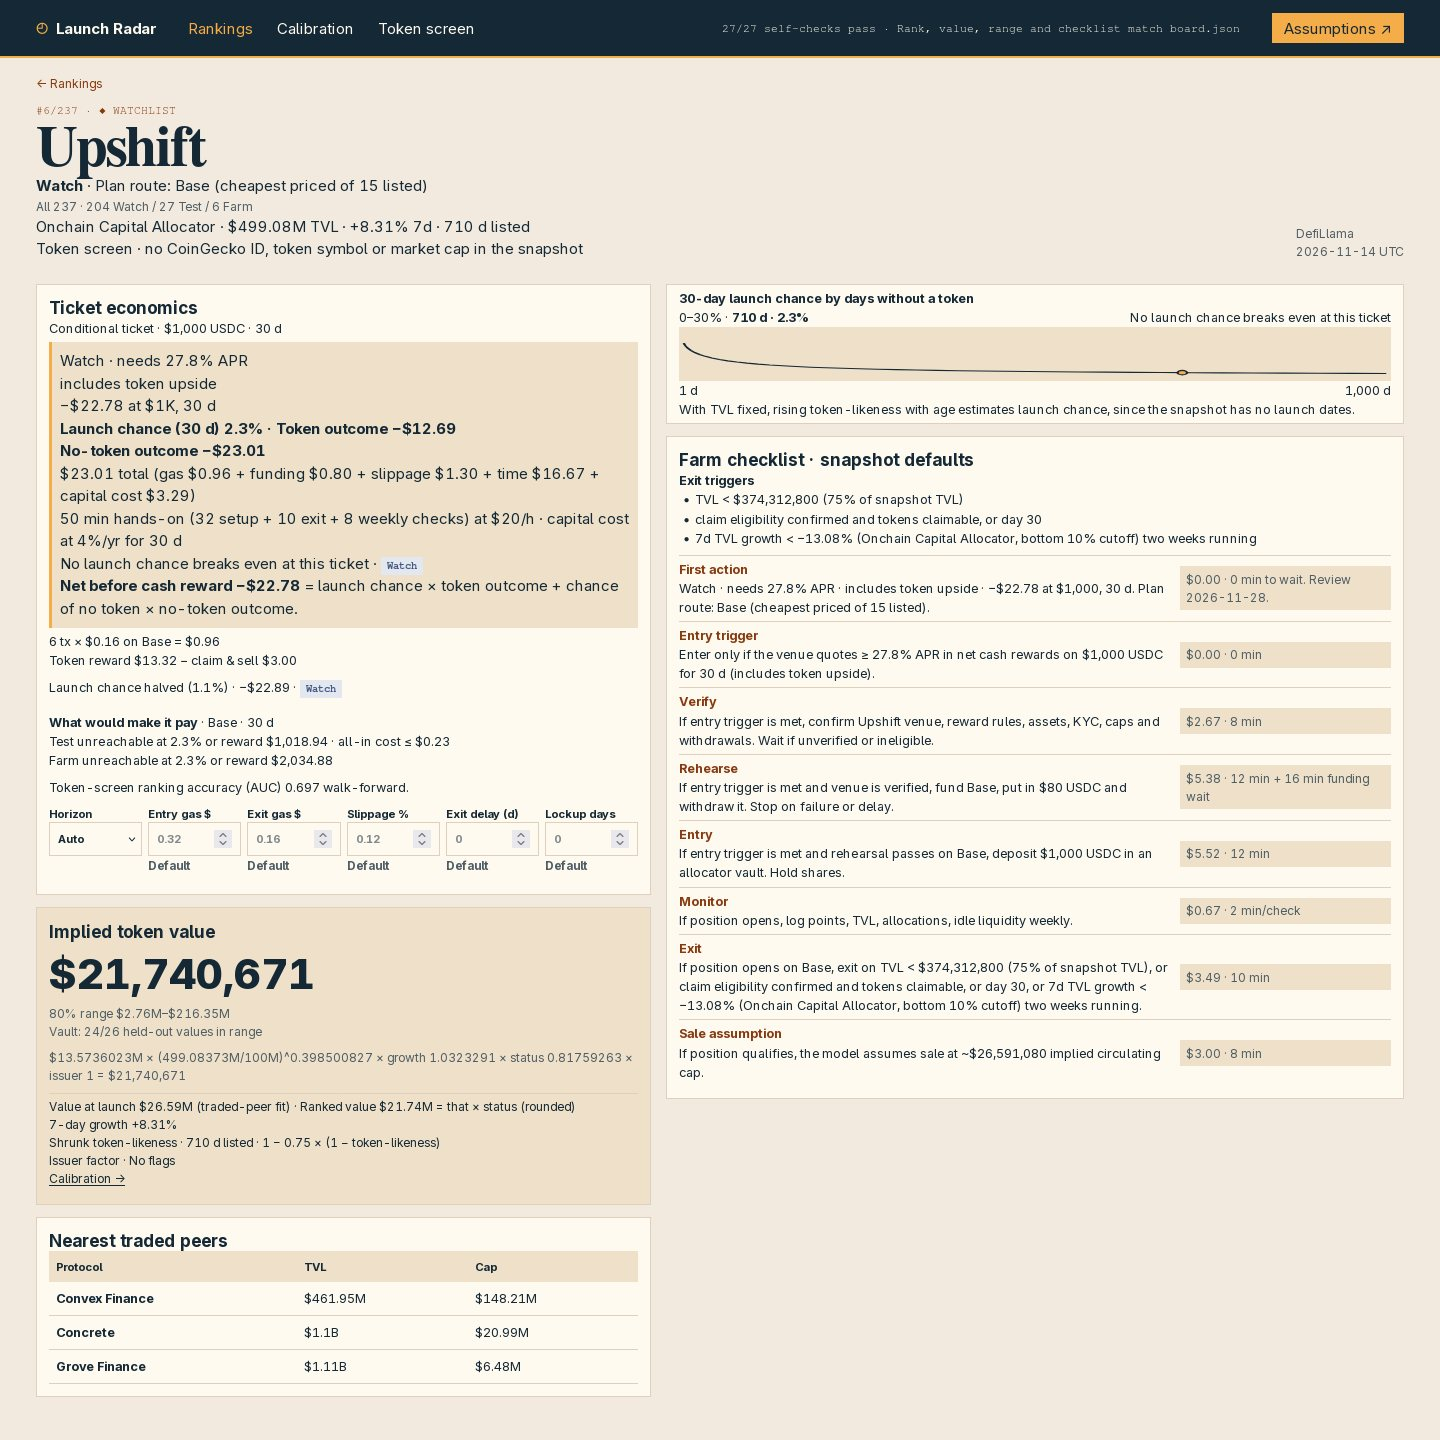
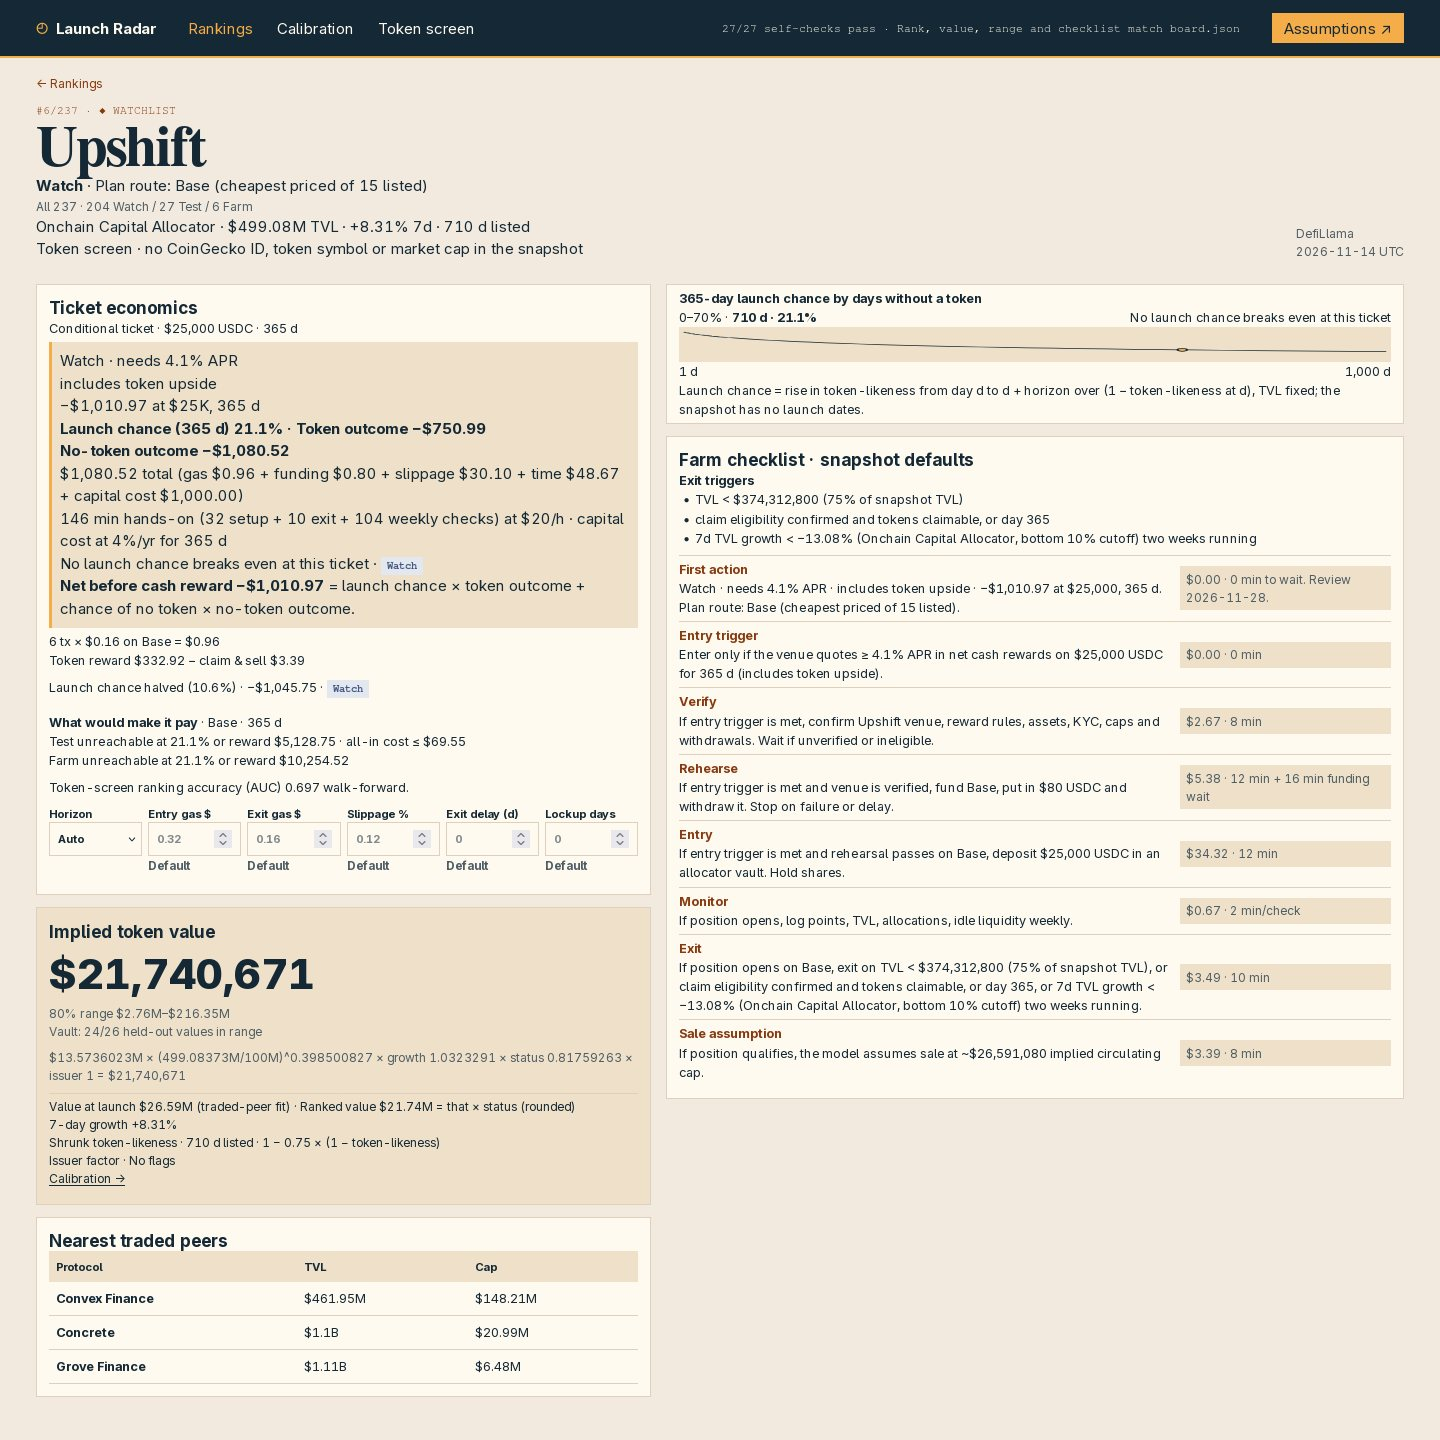
Watch trial: the ticket and horizon needing the lowest reward APR; state the launch-chance curve and nested-miss scope exactly

diff --git a/dashboard/model.js b/dashboard/model.js
@@ -438,7 +438,7 @@ function sizeFarm(fp,quote,horizons){
 	const trials=ladder.slice(0,-1).map(rung=>rung.reduce(byNet)),
 		test=trials.find(p=>p.net>=0)
 	return test?{...test,verdict:"MARGINAL"}:
-		{capital:0,net:0,cost:0,verdict:"SKIP",trial:trials.reduce(byNet)}
+		{capital:0,net:0,cost:0,verdict:"SKIP",trial:ladder.slice(0,-1).flat().reduce((a,b)=>entryApr(b)<entryApr(a)?b:a)}
 }
 const chooseFarm=(fp,quote=fp.quote,h=0)=>sizeFarm(fp,quote,h?[h]:A.horizons),
 	stages={SKIP:"Watch",MARGINAL:"Test",FARM:"Farm"},
@@ -672,7 +672,7 @@ const statuses=["traded","recorded","setAside","ranked"],
 	reasons={cap:["traded","Positive market cap"],id:["recorded","Token ID or symbol recorded"],
 		product:["setAside","Wrapped, staked or bridged product"],exchange:["setAside","Exchange category or name"],
 		pre:["ranked","Pre-token"],watch:["ranked","Watchlist exception"]},
-	timing="With TVL fixed, rising token-likeness with age estimates launch chance, since the snapshot has no launch dates."
+	timing="Launch chance = rise in token-likeness from day d to d + horizon over (1 − token-likeness at d), TVL fixed; the snapshot has no launch dates."
 const settings={parameters:A,timing,
 	notes:[`Test cap ${whole(A.tickets.at(-2))}. Farm requires ${A.farmRatio}× cost in expected proceeds and no flags.`,
 		`Depositors get ${pct(A.depositorShare,0)} of rewards. ${pct(A.tvlShare,0)} of TVL competes.`,

diff --git a/dashboard/app.js b/dashboard/app.js
@@ -74,7 +74,7 @@ const intro=(title,copy="",lead="",lbl="")=>`<header class=intro><div>${lbl}<h1>
 	panel=(kind,title,body)=>`<section class="panel ${kind}"><h2>${title}</h2>${body}</section>`,
 	card=(title,body)=>panel("kpi",title,body),inset=(title,body,kind="")=>panel("inset"+kind,title,body)
 
-const valueStats=`<p class=nested>Form chosen inside training only</p>
+const valueStats=`<p class=nested>Misses: form chosen inside each training fold</p>
 <div class="readings misses">${html(entries(outerTests),([k,lbl])=>{
 		const {miss,flat,n}=headline[k]
 		return`<div><span>${lbl} · n=${n}</span><strong>${mult(miss)}</strong> / ${mult(flat)}${miss!==null&&miss>=flat?"<small>Flat ratio ties or wins.</small>":""}</div>`
